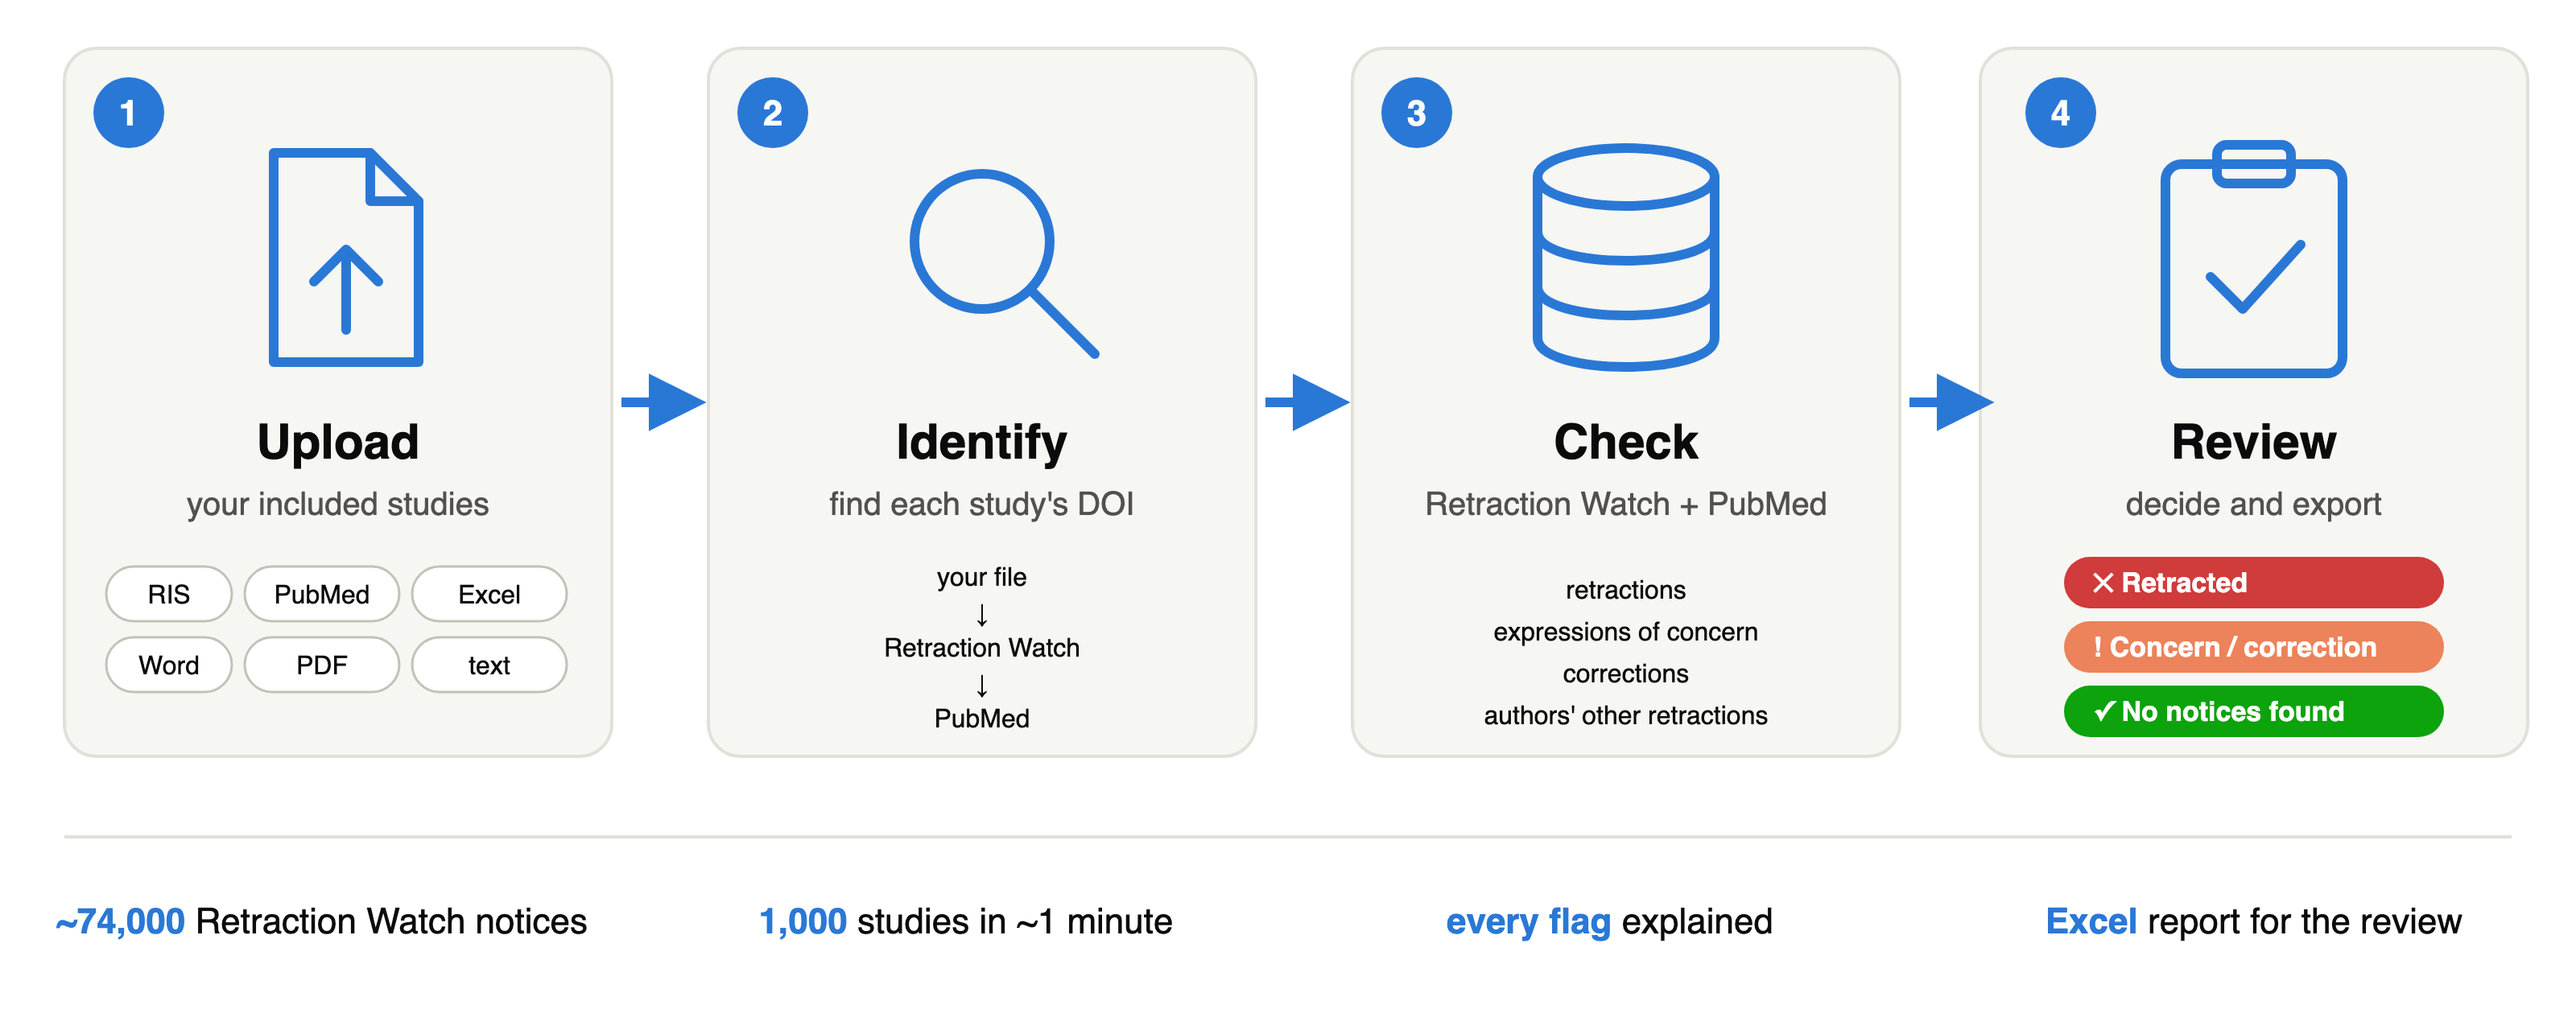
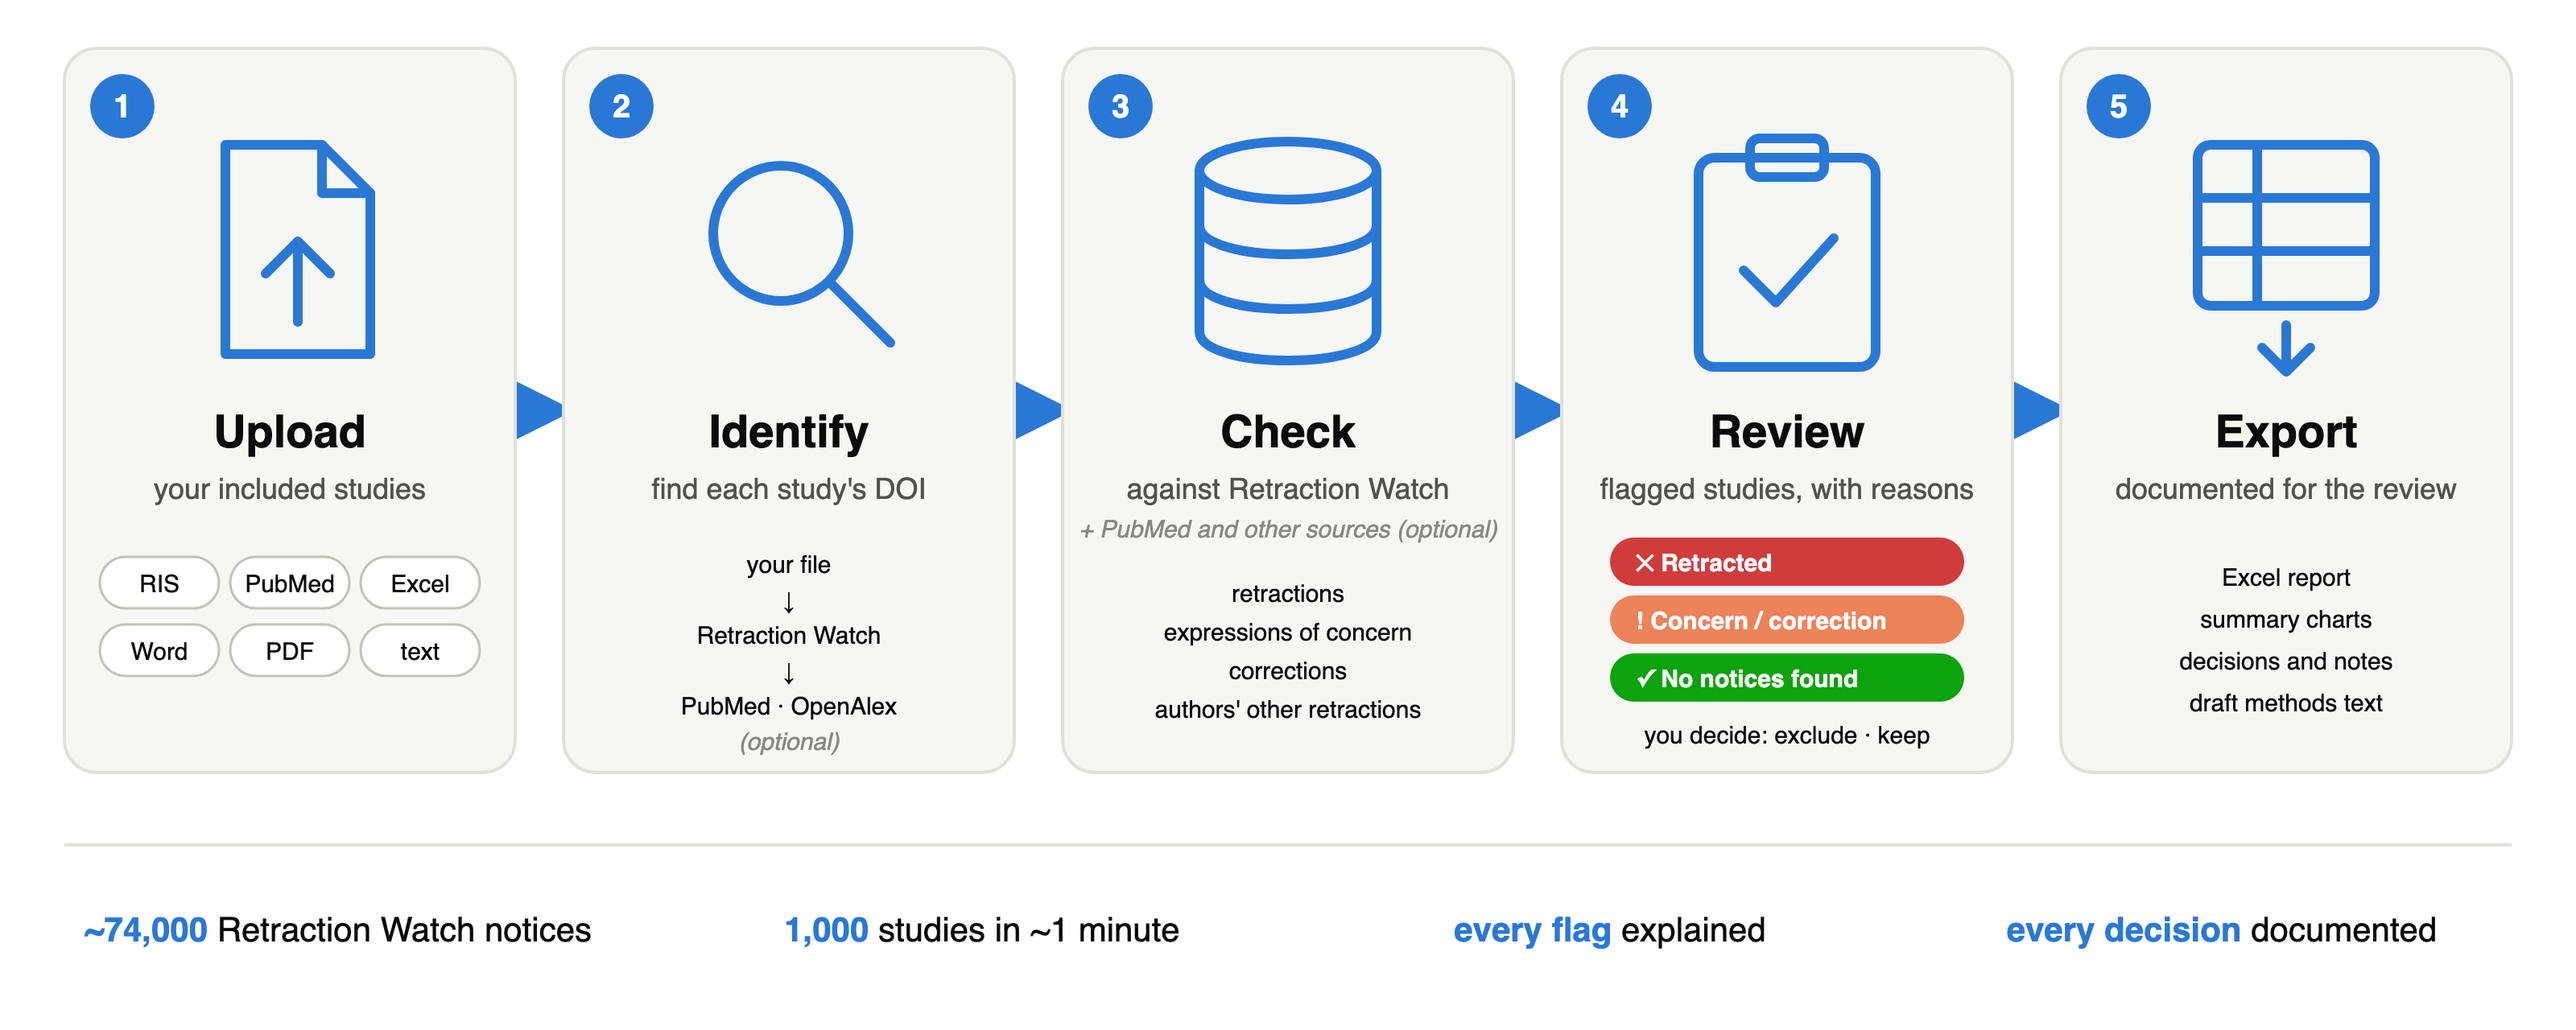
Report unidentified references; 5-step animated "How it works" figure
- Final overview: "Not identified" count and a table of references checked by title only,
  with what was tried and what to do
- Excel: new "Not identified" sheet; count on the Overview sheet
- Simple figure now has 5 steps (Upload, Identify, Check, Review, Export) and marks PubMed and
  other sources as optional; build frames (docs/build/) and an animated GIF for slides

diff --git a/inspectsr/assessment.py b/inspectsr/assessment.py
@@ -173,6 +173,24 @@ class Assessment:
                                  "Type": e.kind, "Date": e.date, "Detail": e.detail, "Link": e.url, "Matched by": e.match})
         return pd.DataFrame(rows, columns=["ID", "Study", "Check", "Source", "Type", "Date", "Detail", "Link", "Matched by"])
 
+    def not_identified_table(self) -> pd.DataFrame:
+        """References for which no DOI or PubMed ID could be found: checked against Retraction Watch by title only."""
+        rows = []
+        for s in self.studies:
+            if s.identified:
+                continue
+            status = self.raw_status(s.uid)
+            rows.append({"ID": s.uid, "Study": s.label, "Title": s.title, "Journal": s.journal, "Year": s.year,
+                         "Result of title check": status,
+                         "What was tried": " ".join(s.id_notes) or (
+                             "No DOI or PubMed ID in your file; no exact title match in Retraction Watch. "
+                             + ("Online title searches found nothing." if self.run.online else
+                                "Quick check: no online search was done (use Standard to look it up in PubMed).")),
+                         "Citation as supplied": s.raw[:500], "Source file": s.source_file,
+                         "What to do": "Add the DOI on the Input page and run again, or check the study by hand"})
+        return pd.DataFrame(rows, columns=["ID", "Study", "Title", "Journal", "Year", "Result of title check",
+                                           "What was tried", "Citation as supplied", "Source file", "What to do"])
+
     def provenance_table(self) -> pd.DataFrame:
         rows = [{"Item": "Tool", "Value": f"Retraction Watch check v{__version__}"},
                 {"Item": "Run started", "Value": self.run.started},
@@ -202,6 +220,7 @@ class Assessment:
             sheets = {
                 "Summary": self.summary_table().drop(columns=["Group"]),
                 "Notices": self.notices_table(),
+                "Not identified": self.not_identified_table(),
                 "Checks": self.checks_table(),
                 "Evidence": self.evidence_table(),
                 "Provenance": self.provenance_table(),
@@ -242,7 +261,8 @@ class Assessment:
         nums = [("Studies checked", len(self.studies)), ("Flagged (any finding)", len(self.flagged_uids())),
                 ("Retracted", n_ret), ("Selected for review", total), ("Reviewed", done),
                 ("Excluded", int(oc.get("Confirmed – exclude", 0))), ("Kept", int(oc.get("Confirmed – keep", 0))),
-                ("False matches", int(oc.get("False match – ignore", 0)))]
+                ("False matches", int(oc.get("False match – ignore", 0))),
+                ("Not identified (title check only)", sum(not s.identified for s in self.studies))]
         for i, (k, v) in enumerate(nums):
             ws.write(3 + i, 0, k)
             ws.write(3 + i, 1, v, bold)
@@ -258,7 +278,7 @@ class Assessment:
             return row + len(df), col
 
         # 1. review outcomes
-        r0 = 14
+        r0 = 15
         oc_df = self.outcome_counts()
         ws.write(r0 - 1, 0, "Review of flagged studies", bold)
         last, _ = table(oc_df, r0, 0)

diff --git a/app.py b/app.py
@@ -658,7 +658,9 @@ def page_export():
     oc = a.outcome_counts().set_index("Outcome")["Studies"]
     n_ret = sum(group(a.raw_status(s.uid)) == "retracted" for s in a.studies)
     n_notices = int(a.notices_per_year()["Notices"].sum()) if not a.notices_per_year().empty else 0
-    k = st.columns(6)
+    k = st.columns(7)
+    k[6].metric("Not identified", sum(not s.identified for s in a.studies),
+                help="No DOI or PubMed ID found: checked against Retraction Watch by title only. Listed below.")
     k[0].metric("Studies checked", len(a.studies))
     k[1].metric("Flagged", len(a.flagged_uids()))
     k[2].metric("Retracted", n_ret)
@@ -710,10 +712,23 @@ def page_export():
             tooltip=["Year", "Finding", "Studies"]).properties(height=240, width="container")
         st.altair_chart(ch, width="stretch")
 
+    noid = a.not_identified_table()
+    st.markdown(f"#### Not identified ({len(noid)})")
+    if noid.empty:
+        st.caption("Every study was identified by DOI or PubMed ID.")
+    else:
+        st.caption("No DOI or PubMed ID could be found for these references, so they were checked against Retraction "
+                   "Watch **by title only** (exact and similar titles) and not against the other sources. A clean "
+                   "result here is less certain. Add the DOI on the Input page and run again, or check them by hand. "
+                   "They are listed in the **Not identified** sheet of the Excel workbook.")
+        st.dataframe(noid[["Study", "Title", "Journal", "Year", "Result of title check", "Source file"]],
+                     hide_index=True, width="stretch",
+                     column_config={"Title": st.column_config.TextColumn(width="large")})
+
     st.markdown("#### Download")
     st.markdown("The Excel workbook starts with an **Overview** sheet (these numbers and charts), followed by "
                 "**Summary** (one row per study: status, why, whether you selected it for review, your decision and "
-                "note), **Notices**, **Checks**, **Evidence** (every record from every source), **Provenance** and a "
+                "note), **Notices**, **Not identified**, **Checks**, **Evidence** (every record from every source), **Provenance** and a "
                 "draft **Methods text**.")
     d1, d2 = st.columns(2)
     stamp = date.today().isoformat()
